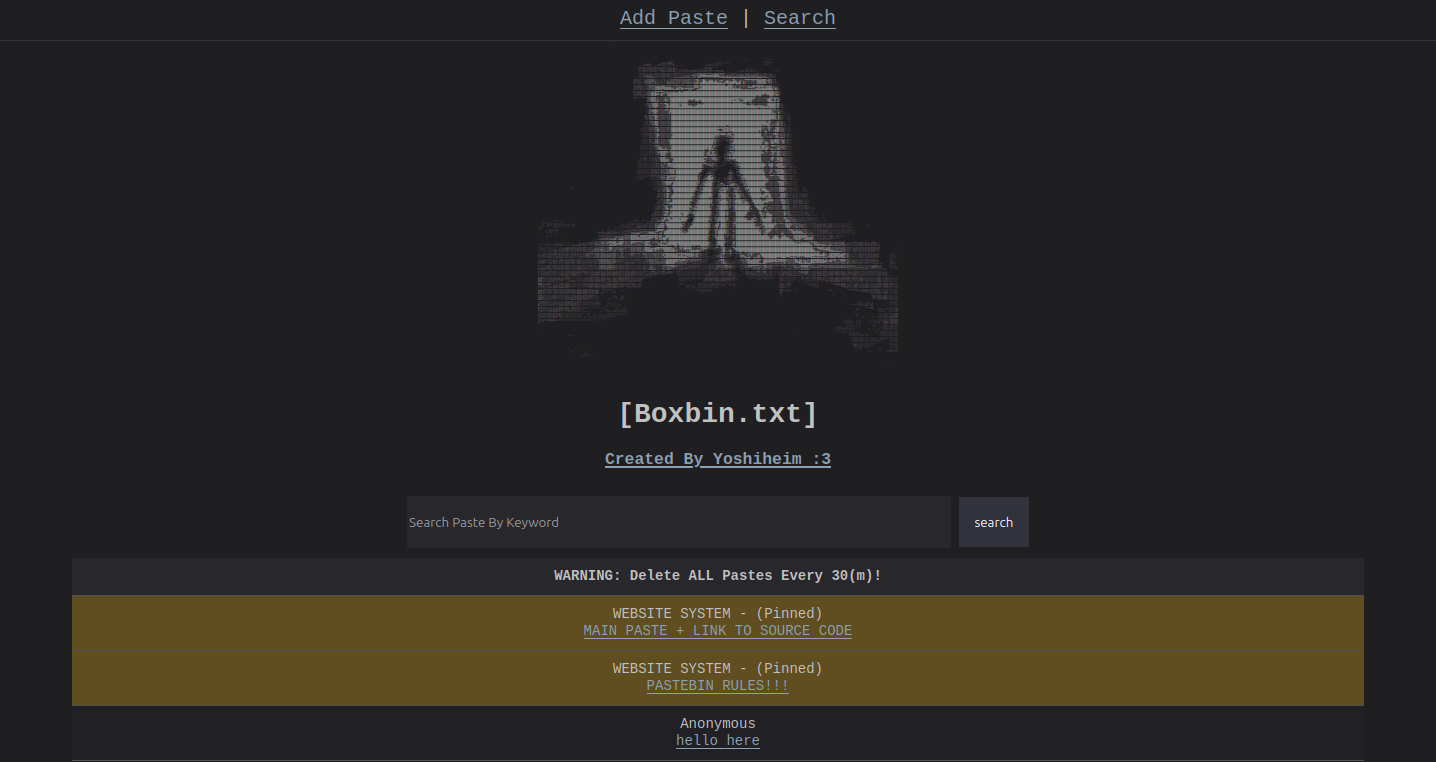
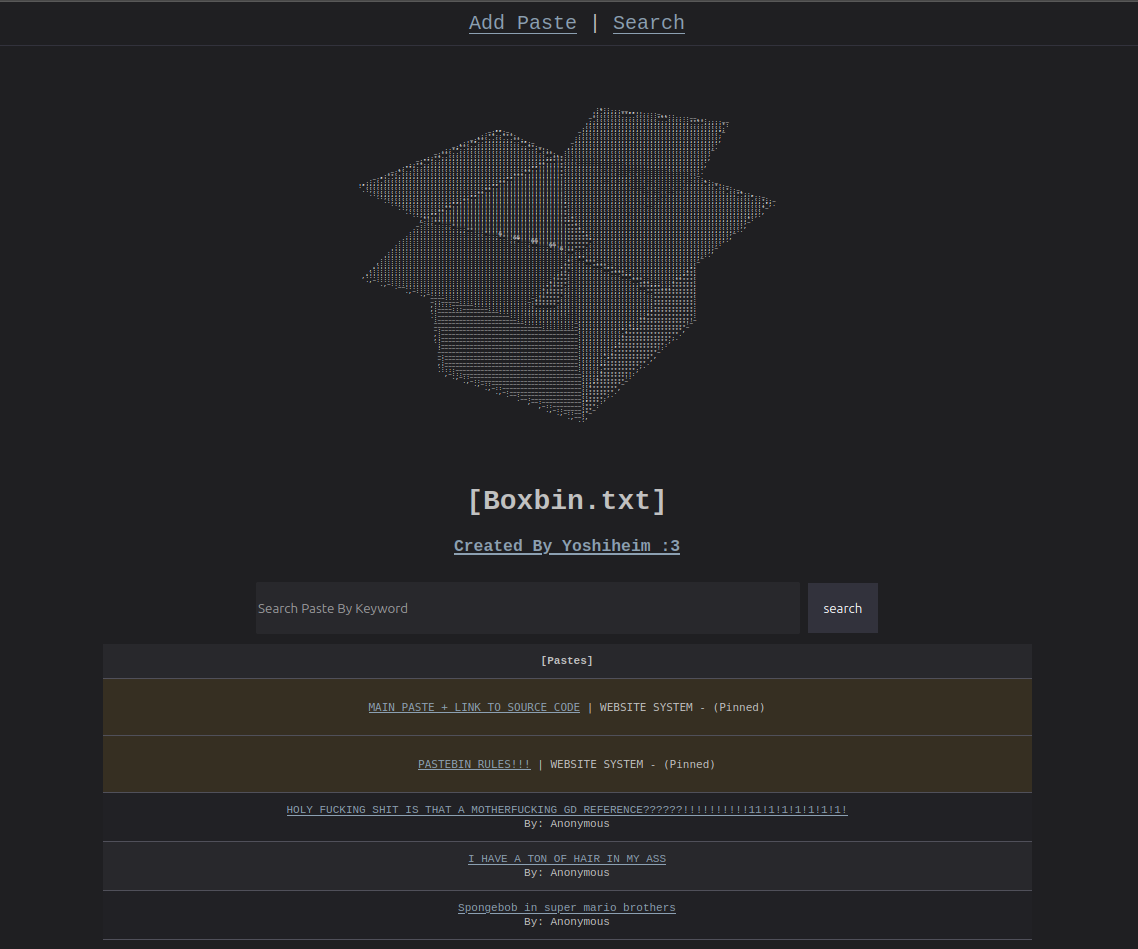
some update

diff --git a/templates/local.html b/templates/local.html
@@ -8,14 +8,18 @@
 </head>
 <body>
     <div style="text-align: left;"> 
-        ID:{{.ID}}
-        <strong>{{.Title}}</strong>
-        [Created At: {{ formatDate .CreatedAt }}]
+        ID:{{.paste.ID}}
+        <strong>{{.paste.Title}}</strong>
+        [Created At: {{ formatDate .paste.CreatedAt }}]
 
-        Created By: {{CutString .Author 100}}
-        
-        <pre style="font-size: 15px;">{{.Content}}</pre>
-        
+
+        Created By: {{CutString .paste.Author 100}}
+        <div style="text-align: left;">
+            {{range $i, $v := .content}}
+                <pre style="line-height:0.2;">{{$v}}</pre>
+            {{end}}
+        </div>
+
         <button onclick="copyText(document.getElementById('content').textContent)">Copy</button>
     </div>
     <script> 

diff --git a/static/style.css b/static/style.css
@@ -35,6 +35,14 @@ body {
 }
 
 
+.count {
+    background-color: var(--pasteblack);
+    padding: 5px;
+}
+.count:nth-of-type(2n){
+    background-color: var(--pastewhite);
+}
+
 .addp{
   position: fixed;
   top: 0;
@@ -71,9 +79,10 @@ a {
 }
 
 .pas{
-    width: 70%;
+    width: 50%;
     background-color: var(--pastewhite);
     display: flex;
+    font-size: 11px;
     flex-direction: column;
     text-align: center;
     border-bottom: solid 1px rgb(80, 80, 90);

diff --git a/templates/index.html b/templates/index.html
@@ -61,7 +61,7 @@
                     </div>
                 {{else}}
                     <div class="pas">
-                        <pre><a href="/paste/{{.ID}}">{{CutString .Title 128}}</a> | {{CutString .Author 128}}</pre>    
+                        <a href="/paste/{{.ID}}">{{CutString .Title 128}}</a> By: {{CutString .Author 128}}    
                     </div>
                 {{end}}
                 
@@ -71,12 +71,9 @@
         {{end}}
     </div>
     <div>
-        <h2>
-            <a href="/?page={{.preid}}" class="page">{{.preid}}</a>
-        </h2>
-        <h2>
-            <a href="/?page={{.nextid}}" class="page">{{.nextid}}</a>
-        </h2>
+        {{range seq .totalPages}}
+            <a href="/?page={{.}}" class="count">{{.}}</a>
+        {{end}}
     </div>
 </body>
 </html>

diff --git a/internal/handlers/MainPage.go b/internal/handlers/MainPage.go
@@ -1,6 +1,7 @@
 package handlers
 
 import (
+	"fmt"
 	"hoxt/data"
 	"hoxt/internal/db"
 	"hoxt/internal/helpers"
@@ -9,29 +10,12 @@ import (
 	"log"
 	"net/http"
 	"text/template"
-	"time"
 )
-
-type TopicWithCount struct {
-	ID          uint
-	Name        string
-	Description string
-	CreatedAt   time.Time
-	PostCount   int
-}
 
 // The Index aka '/' path in website.
 // path: 'http://<HOST>:<PORT>/'
 func MainPage(w http.ResponseWriter, r *http.Request) {
-	var err error
-
-	var id uint32
-
-	var preid uint32
-
-	var nextid uint32
-
-	id, preid, nextid, err = helpers.SafeParsePage(r)
+	id, err := helpers.ParsePageID(r)
 	if err != nil {
 		http.Error(w, "error with args", http.StatusBadRequest)
 		return
@@ -65,6 +49,12 @@ func MainPage(w http.ResponseWriter, r *http.Request) {
 		return
 	}
 
+	var count int64
+
+	db.DB.Model(&modules.Paste{}).Count(&count)
+
+	totalPages := (count + int64(limit) - 1) / int64(limit)
+
 	/*var tops []TopicWithCount
 
 	if err := db.DB.
@@ -83,23 +73,21 @@ func MainPage(w http.ResponseWriter, r *http.Request) {
 	}
 	*/
 
-	helpers.UpdateLogo()
-
 	cfg := data.GetDConfig(w)
 
 	tpl, err := template.New("index.html").Funcs(helpers.FuncMap).ParseFiles("./templates/index.html", "./templates/attr.html", "./templates/search.html", "./templates/interface.html")
 	if err != nil {
+		fmt.Println(err.Error())
 		http.Error(w, "Error With File", http.StatusInternalServerError)
 		return
 	}
 
 	if err := tpl.Execute(w, map[string]any{
-		"data":   cfg,
-		"logo":   string(data.Logo),
-		"timer":  helpers.Dest,
-		"pastes": pastes,
-		"preid":  preid,
-		"nextid": nextid,
+		"data":       cfg,
+		"logo":       string(data.Logo),
+		"timer":      helpers.Dest,
+		"pastes":     pastes,
+		"totalPages": int(totalPages),
 	}); err != nil {
 		log.Println(err.Error())
 		http.Error(w, "Cant Parse File", http.StatusInternalServerError)

diff --git a/internal/helpers/PagesCount.go b/internal/helpers/PagesCount.go
@@ -39,6 +39,23 @@ func PagesCount(w http.ResponseWriter, r *http.Request, id *uint64, preid, nexti
 	*nextid = uint32(*id + 1)
 }
 
+func ParsePageID(r *http.Request) (id uint32, err error) {
+	pageStr := r.FormValue("page")
+	const defaultPage = 1
+
+	if pageStr == "" {
+		id = defaultPage
+	} else {
+		val, err := strconv.ParseUint(pageStr, 10, 32)
+		if err != nil {
+			return 0, fmt.Errorf("invalid page")
+		}
+		id = uint32(val)
+	}
+
+	return id, nil
+}
+
 func SafeParsePage(r *http.Request) (id, preid, nextid uint32, err error) {
 	const defaultPage = 1
 
@@ -52,6 +69,10 @@ func SafeParsePage(r *http.Request) (id, preid, nextid uint32, err error) {
 			return 0, 0, 0, fmt.Errorf("invalid page")
 		}
 		id = uint32(val)
+	}
+
+	if id == 0 {
+		return 0, 0, 1, nil
 	}
 
 	if id > 1 {

diff --git a/internal/helpers/GetLogo.go b/internal/helpers/GetLogo.go
@@ -3,6 +3,7 @@ package helpers
 import (
 	"fmt"
 	"hoxt/data"
+	"time"
 
 	"github.com/TheZoraiz/ascii-image-converter/aic_package"
 )
@@ -34,4 +35,19 @@ func UpdateLogo() {
 		fmt.Printf("[CONVERT IMAGE TO ASCIII - OK]\n")
 		data.Logo = []byte(asciiArt)
 	}
+}
+
+func UpdateLogoTick() {
+	UpdateLogo()
+	Dest, err := ParseCustomDuration(data.Configs.UpdateLogoTick)
+	if err != nil {
+		return
+	}
+	go func() {
+		tick := time.NewTicker(Dest)
+		for range tick.C {
+			UpdateLogo()
+			fmt.Println("[LOGO UPDATED]")
+		}
+	}()
 }

diff --git a/internal/helpers/strings.go b/internal/helpers/strings.go
@@ -57,3 +57,18 @@ func OnlyASCII(s string) string {
 
 	return string(b)
 }
+
+func SplitByRunes(s string, size int) []string {
+	runes := []rune(s)
+	var result []string
+
+	for i := 0; i < len(runes); i += size {
+		end := i + size
+		if end > len(runes) {
+			end = len(runes)
+		}
+		result = append(result, string(runes[i:end]))
+	}
+
+	return result
+}

diff --git a/internal/handlers/Local.go b/internal/handlers/Local.go
@@ -41,6 +41,8 @@ func Local(w http.ResponseWriter, r *http.Request) {
 		return
 	}
 
+	content := helpers.SplitByRunes(paste.Content, 100)
+
 	tpl, err := template.New("local.html").Funcs(helpers.FuncMap).ParseFiles("./templates/local.html")
 	if err != nil {
 		log.Println(err.Error())
@@ -48,7 +50,10 @@ func Local(w http.ResponseWriter, r *http.Request) {
 		return
 	}
 
-	if err := tpl.Execute(w, paste); err != nil {
+	if err := tpl.Execute(w, map[string]any{
+		"paste":   paste,
+		"content": content,
+	}); err != nil {
 		log.Println(err.Error())
 		http.Error(w, "Cant Parse File", http.StatusInternalServerError)
 		return

diff --git a/internal/helpers/FuncMap.go b/internal/helpers/FuncMap.go
@@ -34,4 +34,11 @@ var FuncMap = template.FuncMap{
 	"Split": func(s string) []string {
 		return strings.Split(s, "\n")
 	},
+	"seq": func(n int) []int {
+		s := make([]int, n)
+		for i := range s {
+			s[i] = i + 1 // Start from 1 instead of 0
+		}
+		return s
+	},
 }

diff --git a/main.go b/main.go
@@ -70,6 +70,8 @@ func main() {
 
 	helpers.MemoryUsageTick()
 
+	helpers.UpdateLogoTick()
+
 	if *hostflag != data.Configs.Host && *portflag == data.Configs.Port {
 
 		fmt.Printf("[HOSTNAME AND PORT FROM FLAGS DOESN'T EQUAL]\n")

diff --git a/data/config.go b/data/config.go
@@ -26,6 +26,7 @@ type Config struct {
 	Pastes []Paste `json:"pastes"` // All set paste of website
 
 	// ect.
+	UpdateLogoTick       string     `json:"update_logo_tick"`
 	PasteLens            LenOfPaste `json:"paste_lens"` // the limit of texts length in pastes
 	CheckMemoryUsageTick string     `json:"check_memory_usage_tick"`
 	Theme                uint       `json:"theme"`        // its should be for change color in pastebin but its doesn't work at all actually